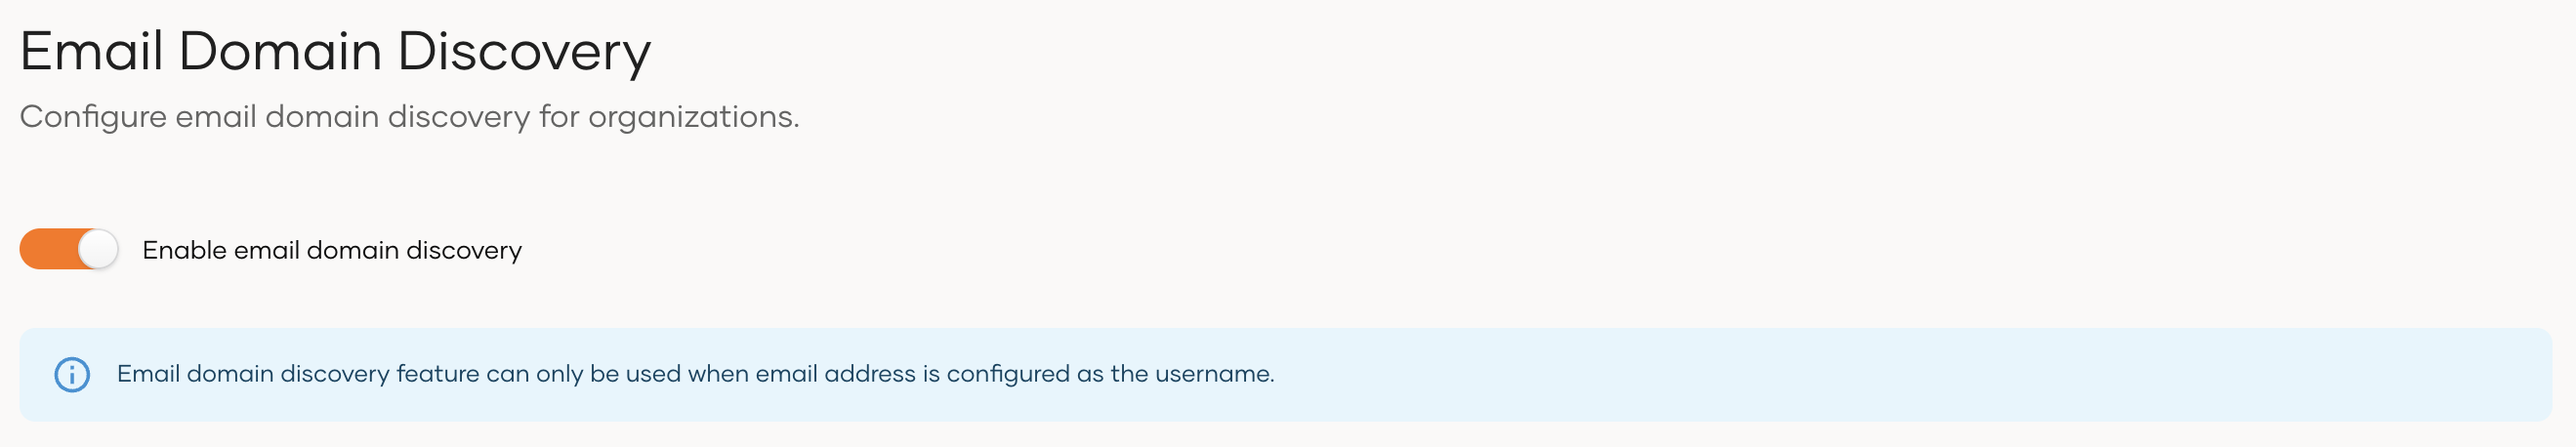
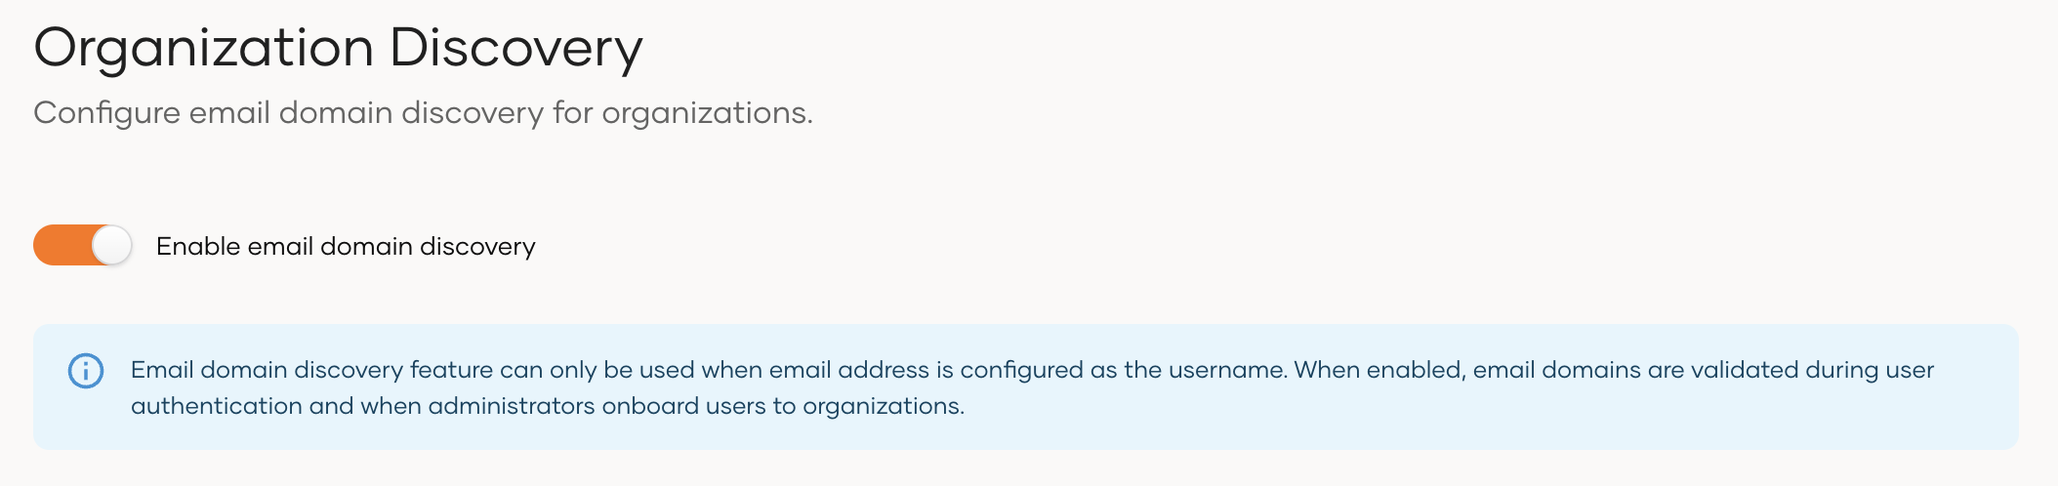
Address review comments.

diff --git a/en/includes/guides/organization-management/email-domain-based-organization-discovery.md b/en/includes/guides/organization-management/email-domain-based-organization-discovery.md
@@ -29,7 +29,22 @@ and user Bob and Ben, with emails `bob@gcmart.com` and `ben@glory.com` should be
 1. Login to the organization (root) from the {{ product_name }} Console.
 2. On the {{ product_name }} Console, go to **Login & Registration**, and click **Organization Discovery** under **Organization Settings**.
 3. Turn on the toggle to enable email domain based organization discovery.
-4. Select the **Email domain discovery for self-registration** checkbox if you want to allow users to discover and self-register in sub-organizations based on their email domain.
+
+    !!! note
+        When this is enabled, following restrctions will apply to child organizations during federated authentication and user onboarding.
+
+        - Users can self-register, and administrators can onboard users to child organizations, only if the users' email domains match the domains mapped to the corresponding child organization.
+
+        {% if (product_name == "WSO2 Identity Server") %}
+
+        - If the Identity Provider (IDP) includes a mapped email attribute, federated authentication and Just-In-Time (JIT) provisioning for child organizations are restricted to email domains mapped to those child organizations.
+
+        {% endif %}
+{% if (product_name == "WSO2 Identity Server") %}
+
+4. Select the **Email domain discovery for self-registration** checkbox if you want to allow users to discover and self-register in child organizations based on their email domain.
+
+{% endif %}
 
     ![Enable email domain based organization discovery]({{base_path}}/assets/img/guides/organization/manage-organizations/enable-email-domain-based-organization-discovery.png){: width="700" style="display: block; margin: 0; border: 0.3px solid lightgrey;"}
 
